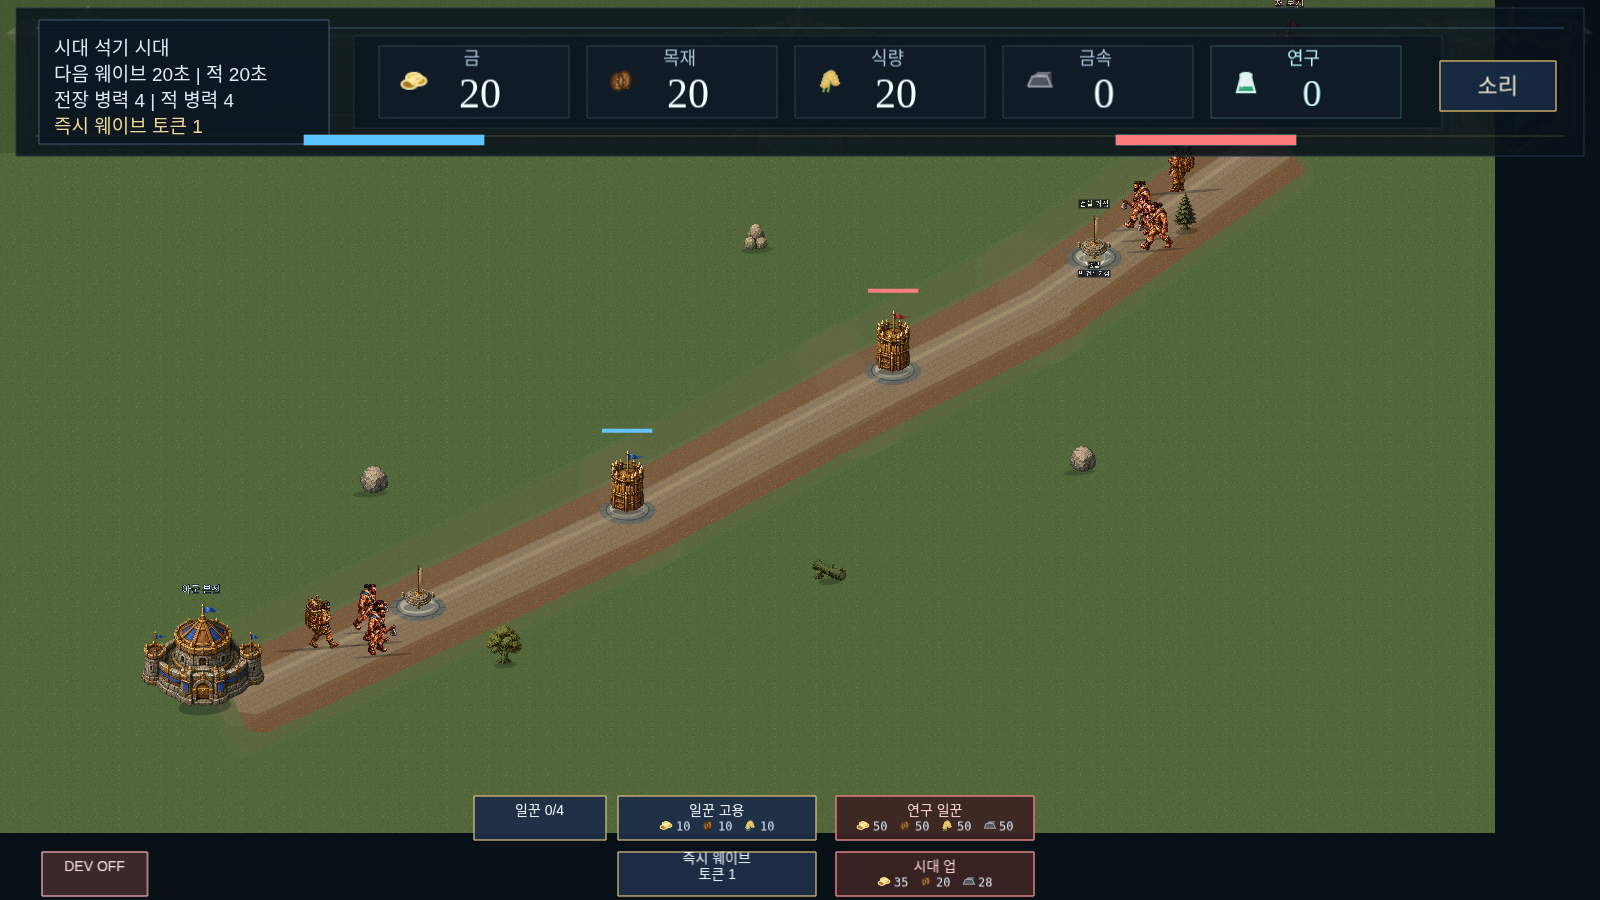
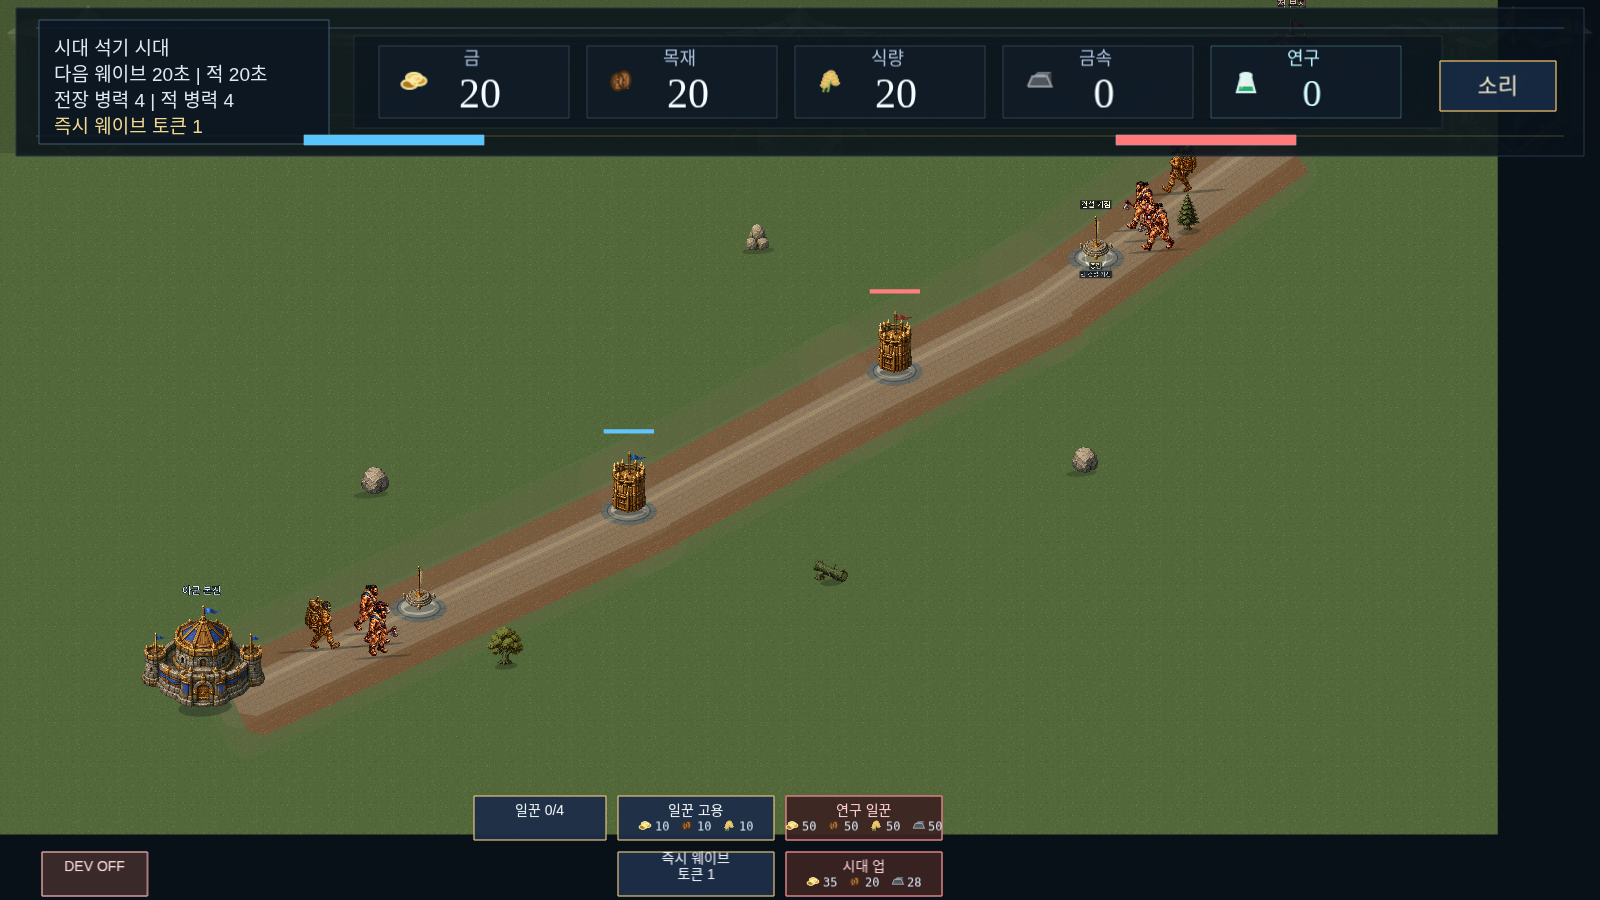
feat: fix the battlefield framing and trim the action buttons
Panning is off once the whole field is on screen. There is nothing to pan to, and
doing it anyway slides the composition off centre to show the empty ground
outside the play area.

The framing was computed from the lane path, which is only where feet go. A main
base is drawn from that point and reaches about 480 units up and 340 to each
side, so both castles were cropped at the screen edges while the arithmetic
reported that the map fitted. It now measures the content -- bases and unit
height included -- and leaves 90 units of air beyond it, because fitting exactly
puts the castles flush against the edge where flags and corners still read as cut
off.

The action buttons keep their height, which is what a finger needs, and lose
width: 198 units was 86 CSS px on a phone, well past the touch floor, and made
the block look heavy for what it holds.

Phone now frames both bases and both lanes with nothing clipped, at 0.428 zoom
with units 66.5 CSS px tall.

Refs #13

diff --git a/src/scenes/LaneBattleScene.ts b/src/scenes/LaneBattleScene.ts
@@ -1292,6 +1292,10 @@ export class LaneBattleScene extends Phaser.Scene {
   private setupFieldDrag(): void {
     this.input.on("pointerdown", (pointer: Phaser.Input.Pointer) => {
       if (this.isPointerOnUi(pointer)) return;
+      // Nothing to pan to when the whole battlefield is already on screen, and
+      // panning anyway only slides it off centre and shows the empty ground
+      // outside the play area. The framing is the composition; leave it alone.
+      if (this.mapFitsOnScreen()) return;
       this.isDraggingField = true;
     });
     this.input.on("pointerup", (pointer: Phaser.Input.Pointer) => {
@@ -3804,7 +3808,7 @@ export class LaneBattleScene extends Phaser.Scene {
    */
   /** Centre of the lane layout, in world coordinates. */
   private mapCentre(): Phaser.Math.Vector2 {
-    const box = this.laneBounds();
+    const box = this.contentBounds();
     return new Phaser.Math.Vector2((box.left + box.right) / 2, (box.top + box.bottom) / 2);
   }
 
@@ -3818,26 +3822,44 @@ export class LaneBattleScene extends Phaser.Scene {
     };
   }
 
-  /** Whether the lanes fit inside the strip of screen the HUD leaves. */
+  /**
+   * The world rectangle the battlefield actually occupies, bases included.
+   *
+   * The lane path is only where feet go. A main base is drawn from that point
+   * and reaches roughly 480 units up and 340 to each side, so framing to the
+   * path alone cropped both bases at the screen edges -- which is what "the map
+   * fits" was quietly claiming while half a castle sat outside the view.
+   */
+  private contentBounds(): { left: number; right: number; top: number; bottom: number } {
+    const lanes = this.laneBounds();
+    const baseVisibleHeight = this.cssPxToWorld(220);
+    const baseHalfWidth = baseVisibleHeight / MAIN_BASE_VISIBLE_HEIGHT_RATIO / 2;
+    // Units stand on the lane and are drawn upward from it.
+    const unitHeight = this.cssPxToWorld(this.scaleVisualConfig.normalUnitCssHeight);
+    // A little air beyond the content. Fitting it exactly puts the castles flush
+    // against the screen edges, where flags and corners read as cut off even
+    // though the arithmetic says they are inside.
+    const breathingRoom = 90;
+    return {
+      left: lanes.left - baseHalfWidth - breathingRoom,
+      right: lanes.right + baseHalfWidth + breathingRoom,
+      top: Math.min(lanes.top - unitHeight, 1980 - baseVisibleHeight) - breathingRoom / 2,
+      bottom: lanes.bottom + unitHeight * 0.4 + breathingRoom / 2,
+    };
+  }
+
+  /** Whether the battlefield fits inside the strip of screen the HUD leaves. */
   private mapFitsOnScreen(): boolean {
-    const box = this.laneBounds();
+    const box = this.contentBounds();
     const metrics = measureScreen(this.scale.displaySize.width, this.scale.displaySize.height);
     return (box.right - box.left) * this.fieldZoom <= CANVAS_W
       && (box.bottom - box.top) * this.fieldZoom <= fieldBandHeightUnits(metrics);
   }
 
   private resolveFieldZoom(): number {
-    const box = this.laneBounds();
-    // Margin for what stands on the lane rather than the lane itself: a base is
-    // far taller than the path node it sits on, and a unit clipped in half is
-    // as good as off-screen.
-    const marginX = 300;
-    const marginY = 200;
+    const box = this.contentBounds();
     return fitFieldZoom(
-      {
-        width: box.right - box.left + marginX * 2,
-        height: box.bottom - box.top + marginY * 2,
-      },
+      { width: box.right - box.left, height: box.bottom - box.top },
       fieldBandHeightUnits(measureScreen(this.scale.displaySize.width, this.scale.displaySize.height)),
     );
   }

diff --git a/src/ui/LaneBattleHudView.ts b/src/ui/LaneBattleHudView.ts
@@ -602,14 +602,17 @@ export class LaneBattleHudView {
       color: "#fff6dd",
     }).setVisible(false).setOrigin(0, 0.5).setDepth(this.depth + 3).setScrollFactor(0);
 
-    const buttonWidth = 198;
+    // Narrower than before. Height is held at the touch floor because that is
+    // what a finger needs, but the width was well past it -- 198 units is 86 CSS
+    // px on a phone -- and the block read as heavy for its content.
+    const buttonWidth = 156;
     const buttonHeight = this.actionButtonHeight;
     const actionRowTopY = this.actionRowTopY;
     const actionRowBottomY = this.actionRowBottomY;
     this.strategicActionButtons.set("hire-worker", this.createActionButton(centerX - 182, actionRowTopY, buttonWidth, buttonHeight, "일꾼 고용", this.callbacks.hireWorker));
-    this.strategicActionButtons.set("hire-research-worker", this.createActionButton(centerX + 36, actionRowTopY, buttonWidth, buttonHeight, "연구 일꾼", this.callbacks.hireResearchWorker));
+    this.strategicActionButtons.set("hire-research-worker", this.createActionButton(centerX - 182 + buttonWidth + 12, actionRowTopY, buttonWidth, buttonHeight, "연구 일꾼", this.callbacks.hireResearchWorker));
     this.strategicActionButtons.set("use-instant-wave", this.createActionButton(centerX - 182, actionRowBottomY, buttonWidth, buttonHeight, "즉시 웨이브", this.callbacks.useInstantWave));
-    this.strategicActionButtons.set("age-up", this.createActionButton(centerX + 36, actionRowBottomY, buttonWidth, buttonHeight, "시대 업", this.callbacks.ageUp));
+    this.strategicActionButtons.set("age-up", this.createActionButton(centerX - 182 + buttonWidth + 12, actionRowBottomY, buttonWidth, buttonHeight, "시대 업", this.callbacks.ageUp));
 
     // capturePanelTitle/capturePanelBody/rosterText are kept alive but never
     // shown on screen — `apply()` is still called from LaneBattleScene and

diff --git a/tools/validation/zz-ov.spec.ts b/tools/validation/zz-ov.spec.ts
@@ -1,0 +1,29 @@
+import { test } from "@playwright/test";
+test.describe.configure({ timeout: 400_000 });
+test("overlaps", async ({ page }) => {
+  await page.setViewportSize({ width: 844, height: 390 });
+  await page.goto("/warcrest/?autostart=1");
+  await page.waitForFunction(() => Boolean((window as any).__warcrestGame?.scene.getScene("run")?.scene.isActive()), undefined, { timeout: 300_000 });
+  await page.waitForTimeout(2500);
+  const out = await page.evaluate(() => {
+    const g = (window as any).__warcrestGame;
+    const s: any = g.scene.getScene("run");
+    const items: any[] = [];
+    for (const c of s.children.list) {
+      const o: any = c;
+      if (!o.visible || o.scrollFactorX !== 0 || !o.getBounds) continue;
+      if (typeof o.text !== "string" || !o.text.trim()) continue;
+      const b = o.getBounds();
+      if (b.left < -500) continue;
+      items.push({ t: o.text.slice(0, 14).replace(/\n/g, "/"), l: Math.round(b.left), r: Math.round(b.right), tp: Math.round(b.top), bt: Math.round(b.bottom) });
+    }
+    const hits: string[] = [];
+    for (let i = 0; i < items.length; i++) for (let j = i + 1; j < items.length; j++) {
+      const a = items[i], b = items[j];
+      if (a.l < b.r && b.l < a.r && a.tp < b.bt && b.tp < a.bt) hits.push(`"${a.t}"[${a.l}-${a.r}] ↔ "${b.t}"[${b.l}-${b.r}]`);
+    }
+    return { count: items.length, hits: hits.slice(0, 12) };
+  });
+  console.log(`텍스트 ${out.count}개, 겹침 ${out.hits.length}건`);
+  out.hits.forEach((h: string) => console.log("  " + h));
+});
